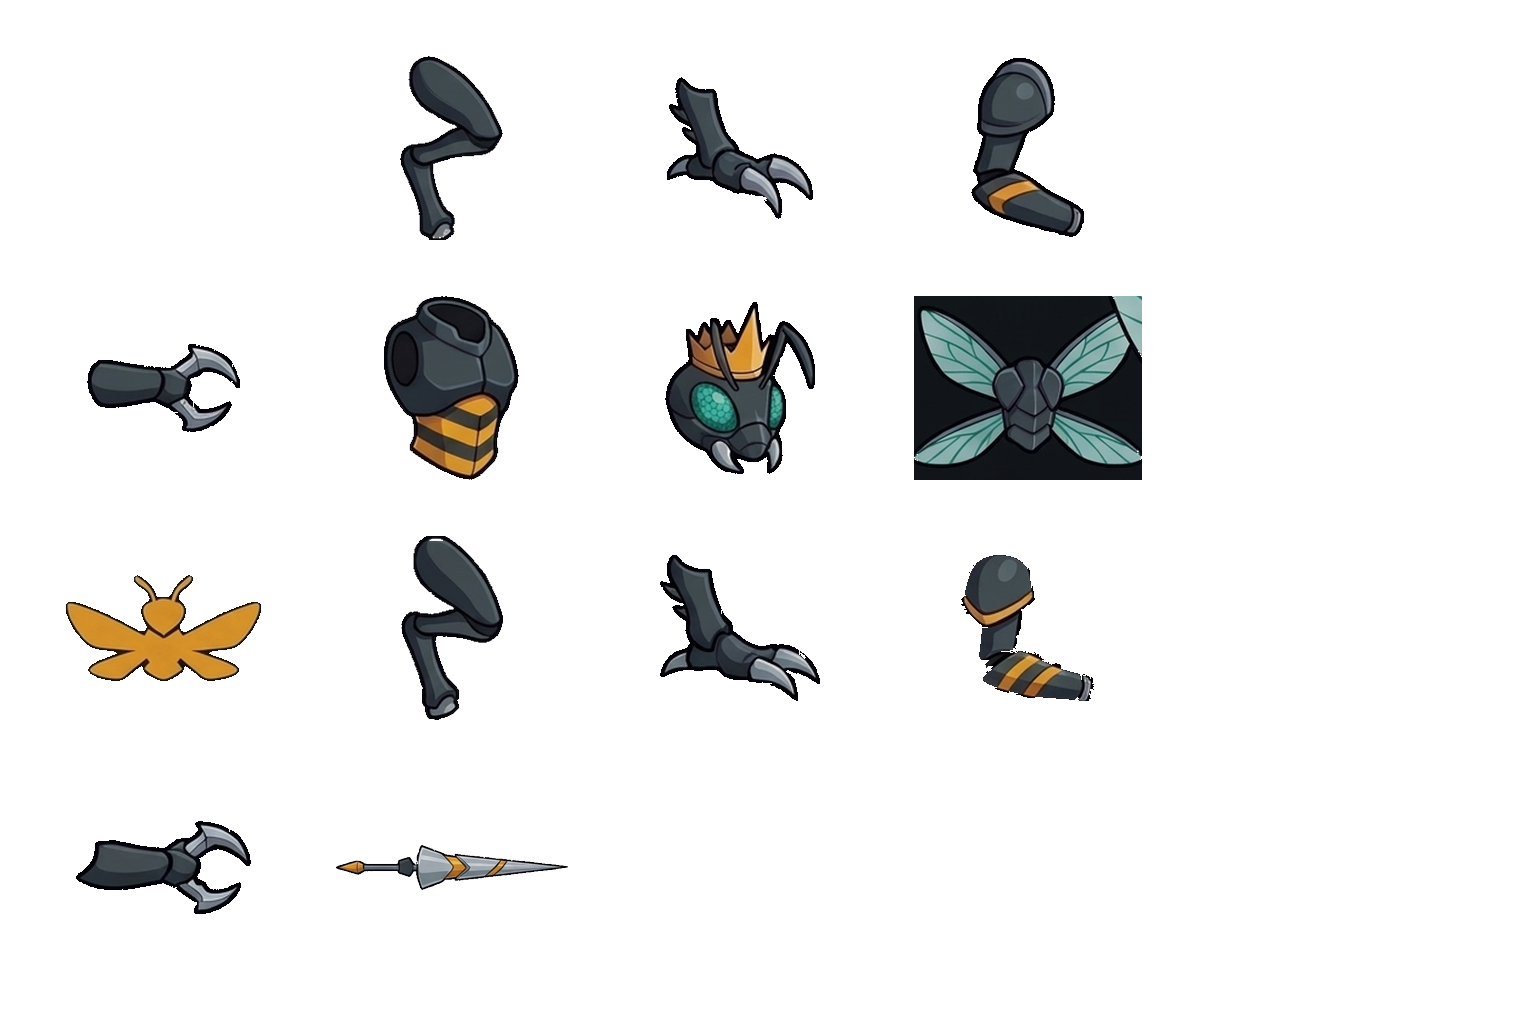
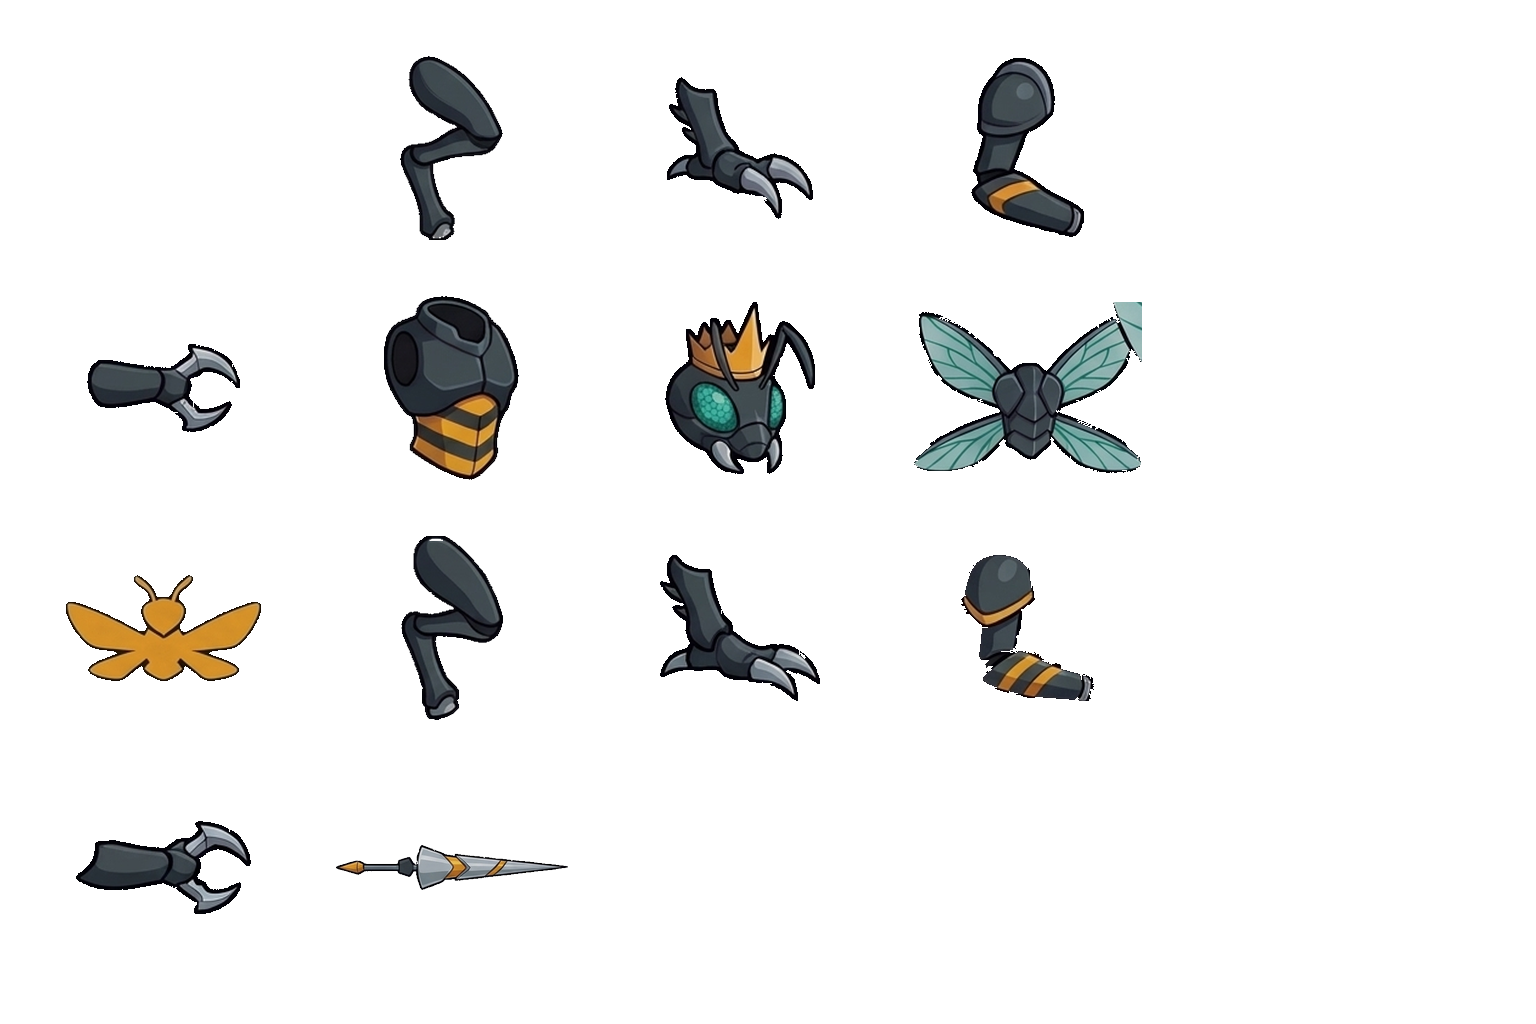
인간·벌레 REDO 4건 조립 정합·배경 정리 및 503 중단 현황 기록

Changed region(s): [[0.5938, 0.2812, 0.75, 0.4688]]

diff --git a/asset-source/r6/monsters/insect/STATUS.md b/asset-source/r6/monsters/insect/STATUS.md
@@ -1,22 +1,22 @@
 # 군체 벌레 (`insect`) 분해 시트 진행 현황
 
 - 기준: `docs/renewal/r6/PRD-r6.md` §4, `docs/renewal/r6/tech/monster-pipeline.md`, `docs/renewal/r6/bible/monsters.md`, `docs/renewal/r6/bible/sheets/monsters-insect.webp`
-- 진행률: **5 / 20 완료** (`parts/` T1 원본을 `<계통>/<단계>/`로 복사 통일, `cut_parts.py` 절단 검증 통과 5개)
-- 한도 중단: 이미지 생성 할당량 소진 (`HTTP 429 RESOURCE_EXHAUSTED`, 2026-11-25 21:41 KST 확인 기준 남은 시간 4시간 9분 → 리셋 예정: **2026-11-26 01:51 KST** 전후)
+- 진행률: **5 / 20 완료** (`parts/` T1 원본을 `<계통>/<단계>/`로 복사 통일, `cut_parts.py` 절단 검증 통과 5개 · 3회차 REDO 2건(`infantry/T1`·`boss-t1/T1`) 완료)
+- 중단 사유: 이미지 생성 서버 용량 부족 (`HTTP 503 UNAVAILABLE: No capacity available for model gemini-3.1-flash-image`, 2026-11-26 02:02~02:09 KST 3회 연속 실패로 `runner/T1` 재작화·`special` 재설계·남은 15개체 생성 대기)
 
 ## 완료 목록 (5개체)
 
 | 개체 | 안내판 | 배율 | 슬롯 수 | 재사용 부위 | 절단 검사 |
 |---|---|---:|---:|---|---|
-| `infantry/T1` | `infantry-biped.json` | 0.95 | 13 | 없음(기본 · `REDO.md` 왼팔·몸통 전신 복원 대기) | 통과 (`ready=true`, `issues=0`, IoU 0.362) |
-| `runner/T1` | `runner-quadruped.json` | 0.85 | 13 | 없음(기본 · `REDO.md` 앞다리 배경 제거·날개/가슴 좌측 복원 대기) | 통과 (`ready=true`, 비차단 `speck` 1건, IoU 0.362) |
+| `infantry/T1` | `infantry-biped.json` | 0.95 | 13 | 없음(기본 · **3회차 REDO 완료: 전신 기준 `assembly.png` 재조립·흰 점 17px 제거**, 모의 `fit_parts` IoU 0.744/0.818) | 통과 (`ready=true`, `issues=0`) |
+| `runner/T1` | `runner-quadruped.json` | 0.85 | 13 | 없음(기본 · `REDO.md` 앞다리 배경 제거·날개/가슴 좌측 복원 대기 — 503으로 이미지 생성 대기) | 통과 (`ready=true`, 비차단 `speck` 1건, IoU 0.362) |
 | `armored/T1` | `armored-quadruped.json` | 1.10 | 13 | 없음(기본) | 통과 (`ready=true`, `issues=0`, IoU 0.508) |
 | `special/T1` | `special-swarm.json` | 1.00 | 14 | 없음(기본 · 재설계 대상) | 통과 (`ready=true`, `issues=0`, IoU 0.549) |
-| `boss-t1/T1` | `boss-biped.json` | 1.65 | 13 | 없음(기본 · `REDO.md` 등날개 배경 제거·다리/발목 분리 대기) | 통과 (`ready=true`, `issues=0`, IoU 0.495) |
+| `boss-t1/T1` | `boss-biped.json` | 1.65 | 13 | 없음(기본 · **3회차 REDO 완료: `armor` 등날개 어두운 사각 배경 제거·다리/발목 맞물림 재조립**, 모의 `fit_parts` IoU 0.743/0.748) | 통과 (`ready=true`, `issues=0`) |
 
-## 한도 해제 후 우선 처리 및 설계 수정 예정 항목
+## 서버 복구 후 우선 처리 및 설계 수정 예정 항목
 
-1. **REDO 3건 우선 처리 (`REDO.md`)**: `infantry/T1`(왼팔·몸통 전신 복원), `runner/T1`(`leg-fore-near` 배경 제거 + 날개·가슴 좌측 가장자리 복원), `boss-t1/T1`(`armor` 등날개 사각 배경 제거 + 다리·발목 길이 분리).
+1. **REDO 잔여 1건 (`REDO.md`)**: `runner/T1`(`leg-fore-near` 배경 제거 + 날개·가슴 좌측 가장자리 복원 — `infantry/T1`·`boss-t1/T1`은 3회차 완료).
 2. **`special` T1·T2 윤곽 재설계**: `armored` T1(둥근 검은 갑충)과 실루엣이 비슷하므로 날개를 편 자세나 낮은 원반형처럼 `armored`와 확연히 다른 윤곽으로 다시 잡는다(`special/T1` 시트·조립 포함 재작화).
 3. **`special` T3·T4 및 W15 보스(`boss-t3/T3`) 광물화**: 청록 육각 캡슐 묶음이 알 덩어리처럼 보이지 않도록 각진 수정판·장갑판(광물 느낌)으로 다듬는다.
 4. **라인업 시트 갱신**: `docs/renewal/r6/bible/sheets/monsters-insect.webp`에서 위 수정 칸만 교체해 갱신한다.

diff --git a/asset-source/r6/monsters/human/STATUS.md b/asset-source/r6/monsters/human/STATUS.md
@@ -1,8 +1,8 @@
 # 철갑 인간 (`human`) 분해 시트 진행 현황
 
 - 기준: `docs/renewal/r6/PRD-r6.md` §4, `docs/renewal/r6/tech/monster-pipeline.md`, `docs/renewal/r6/bible/monsters.md`, `docs/renewal/r6/bible/sheets/monsters-human.webp`
-- 진행률: **13 / 20 완료** (`cut_parts.py` 절단 검증 통과 13개 · `REDO.md` 조립 재요청 2건 반영 완료)
-- 한도 중단: 이미지 생성 할당량 소진 (`HTTP 429 RESOURCE_EXHAUSTED`, 2026-11-25 21:41 KST 확인 기준 남은 시간 4시간 9분 → 리셋 예정: **2026-11-26 01:51 KST** 전후)
+- 진행률: **13 / 20 완료** (`cut_parts.py` 절단 검증 통과 13개 · 3회차 `REDO.md` 2건(`infantry/T3`·`runner/T2`) 보정 반영 완료)
+- 중단 사유: 이미지 생성 서버 용량 부족 (`HTTP 503 UNAVAILABLE: No capacity available for model gemini-3.1-flash-image`, 2026-11-26 02:02~02:09 KST 3회 연속 실패로 신규 생성 중단)
 
 ## 완료 목록 (13개체)
 
@@ -10,10 +10,10 @@
 |---|---|---:|---:|---|---|
 | `infantry/T1` | `infantry-biped.json` | 0.95 | 13 | 없음(기본 · **REDO 반영: assembly 하단 사각 배경 투명 제거**) | 통과 (`ready=true`, `issues=0`, 기본 IoU 0.633 / placement 0.517) |
 | `infantry/T2` | `infantry-biped.json` | 1.05 | 11 (`+gear`) | `arm-hand-near`, `leg-*`, `leg-foot-*` ← `T1` | 통과 (`issues=0`, IoU 0.424) |
-| `infantry/T3` | `infantry-biped.json` | 1.15 | 11 (`+gear`) | 없음(판금·미늘창·근접다리 신규, 원거리 다리/부츠 armored T1 규격) | 통과 (`issues=0`, IoU 0.524) |
+| `infantry/T3` | `infantry-biped.json` | 1.15 | 11 (`+gear`) | 없음(3회차 **REDO 반영: `arm-near`/`arm-hand-near` 손 분리·speck/흰 얼룩 제거·미늘창 조립 정합**, 모의 `fit_parts` IoU 0.729/0.795) | 통과 (`issues=0`) |
 | `infantry/T4` | `infantry-biped.json` | 1.28 | 11 (`+gear`) | 없음(금테 판금·깃털투구·대검 신규, 원거리 다리/부츠 armored T1 규격) | 통과 (`issues=0`, IoU 0.523) |
 | `runner/T1` | `runner-quadruped.json` | 0.85 | 13 | 없음(기본 · **REDO 반영: `body` 기수 머리 목 위까지 완전 복원**) | 통과 (`ready=true`, 기본 IoU 0.448 / placement 0.722) |
-| `runner/T2` | `runner-quadruped.json` | 0.95 | 12 (`+armor`, `+gear`) | `leg-*-*` 8슬롯 ← `T1` | 통과 (`issues=0`, IoU 0.472) |
+| `runner/T2` | `runner-quadruped.json` | 0.95 | 12 (`+armor`, `+gear`) | `leg-*-*` 8슬롯 ← `T1` (**3회차 REDO 반영: speck 64건/흰 점 제거·T1 관절 기준 목/다리/창 조립 정합**, 모의 `fit_fresh` IoU 0.773; 기존 `fixedTargets` 해제 필요) | 통과 (`issues=0`) |
 | `runner/T3` | `runner-quadruped.json` | 1.05 | 12 (`+armor`, `+gear`) | `leg-*-*` 8슬롯 ← `T1` | 통과 (`issues=0`, IoU 0.354) |
 | `runner/T4` | `runner-quadruped.json` | 1.18 | 12 (`+armor`, `+gear`) | `leg-*-*` 8슬롯 ← `T1` | 통과 (`issues=0`, IoU 0.446) |
 | `armored/T1` | `armored-biped.json` | 1.10 | 13 | 없음(기본) | 통과 (`ready=true`, 비차단 `speck` 1건, IoU 0.594) |

diff --git a/asset-source/r6/monsters/elf/STATUS.md b/asset-source/r6/monsters/elf/STATUS.md
@@ -2,7 +2,7 @@
 
 - 기준: `docs/renewal/r6/PRD-r6.md` §4, `docs/renewal/r6/tech/monster-pipeline.md`, `docs/renewal/r6/bible/monsters.md`, `docs/renewal/r6/bible/sheets/monsters-elf.webp`
 - 진행률: **5 / 20 완료** (`parts/` T1 원본을 `<계통>/<단계>/`로 복사 통일, `cut_parts.py` 절단 검증 통과 5개)
-- 한도 중단: 이미지 생성 할당량 소진 (`HTTP 429 RESOURCE_EXHAUSTED`, 2026-11-25 21:41 KST 확인 기준 남은 시간 4시간 9분 → 리셋 예정: **2026-11-26 01:51 KST** 전후)
+- 중단 사유: 이미지 생성 서버 용량 부족 (`HTTP 503 UNAVAILABLE: No capacity available for model gemini-3.1-flash-image`, 2026-11-26 02:02~02:09 KST 3회 연속 실패로 `boss-t1/T1` 좌측 가장자리 재작화 및 남은 15개체 생성 대기)
 
 ## 완료 목록 (5개체)
 
